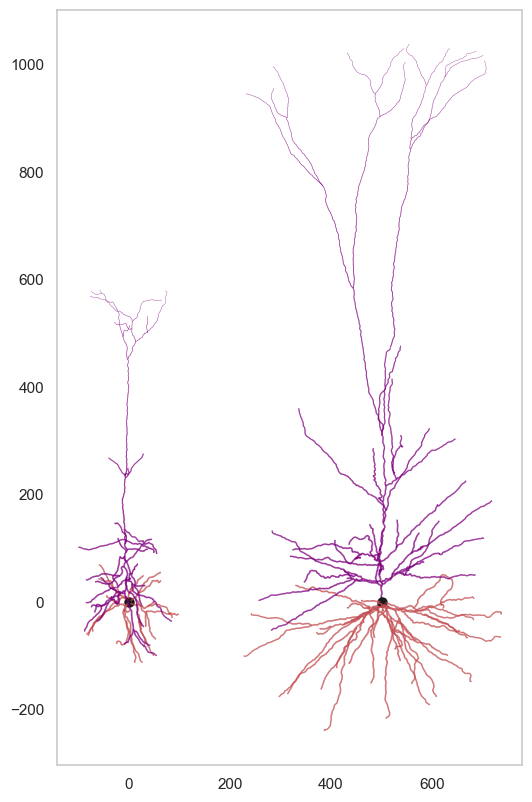
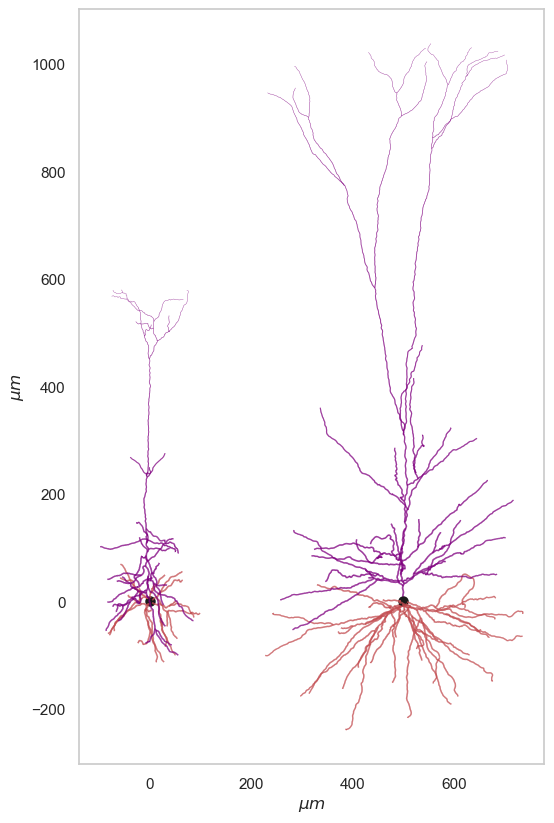
Blog updates

diff --git a/_posts/2020-01-14-how-neurons-actually-look.md b/_posts/2020-01-14-how-neurons-actually-look.md
@@ -4,30 +4,117 @@ excerpt: A look at how to visualize detailed neuron reconstructions in python
 classes: wide
 header:
     teaser: /assets/posts/morph_viz/morph_layerwise.png
-categories: [Computational Neuroscience]
+categories: [Neuroscience]
 tags: [Neuroscience, Visualization, Python]
 comments: true
 permalink: /blog/neuron_viz/
 share: true
 ---
 
-We have all seen those pictures in the high school biology book - the cells in the nervous system, **Neurons**. Here I have shared some code snippets to visualize neurons (pulled from open source data) in their full glory.
+We have all seen those pictures in the high school biology book - the cells in the nervous system, **Neurons**. Here I have shared some code snippets to visualize neurons (pulled from open source data) in their full glory. 
+
+Allen Institute shares a treasure trove of neuroscience related data with the community as well as the software support to access the data with Python. To get a feel of the different data modalitites please visit [here](https://portal.brain-map.org/). The data we are going to work with is part of the [Cell-types database](http://celltypes.brain-map.org/). The neuron morphologies are digitally reconstructed from the images of mouse/human brain tissue slices and saved as .swc file. Please go [here](http://www.neuronland.org/NLMorphologyConverter/MorphologyFormats/SWC/Spec.html) for a primer on the .swc format to understand how the measurements for the different sections of the neuron tree is saved.
+
+## Use AllenSDK to pull morphologies
+```py
+from allensdk.core.cell_types_cache import CellTypesCache
+def get_morph_path(cell_id,save_filename=None):
+    morph_path = save_filename or '%s.swc'%cell_id
+    ctc = CellTypesCache()
+    ctc.get_reconstruction(int(cell_id),file_name=morph_path)
+    return morph_path 
+
+cell_id = '479225052'
+morph_path = get_morph_path(cell_id)
+```
+
+## NeuroM 
+```py
+import neurom.viewer
+import matplotlib.pyplot as plt
+fig,ax = neurom.viewer.draw(neurom.load_neuron(morph_path))
+ax.grid(False)
+ax.set_title('')
+plt.show()
+```
 
 ![](/assets/posts/morph_viz/morph2D_neurom.png){: .left}
 
+## 3D Visualization with transformation
+As part of a bigger project related to generating detailed biophysical models, I created some visualization tools for the morphologies [<i class="fab fa-github" style="color:black;"></i>](https://github.com/AllenInstitute/All-active-Workflow). **MorphHandler** class offers the capability to rotate a neuron in 3D such that the apical trunk is upright. This involves computing the principal component of apical segments of the morphology and rotate the morphology along the axis normal to the plane composed of PC1 and positive z-axis = [0,0,1].
+
+```py
+from ateamopt.morph_handler import MorphHandler
+from mpl_toolkits.mplot3d import Axes3D
+morph_handler = MorphHandler(morph_path)
+morph_data,morph_apical,morph_axon,morph_dist_arr = morph_handler.get_morph_coords()     
+theta,axis_of_rot = morph_handler.calc_rotation_angle(morph_data,morph_apical)
+fig = plt.figure()
+ax = fig.add_subplot(projection='3d')
+ax,_ = morph_handler.draw_morphology(theta,axis_of_rot,reject_axon=False,ax=ax)
+```
 
 ![](/assets/posts/morph_viz/3D_morph_banner.png){: .full}
 
+## Adding synapses and create animation
 
+```py
+ax,elev_angle = morph_handler.draw_morphology(theta,axis_of_rot,reject_axon=False,morph_dist_arr=morph_dist_arr,axis_off=True,alpha=.8)
+n_syn_apical = 10
+ax = morph_handler.add_synapses(morph_apical,n_syn_apical,theta,axis_of_rot,ax,color='k')
+plt.show()
+```
+
+```py
+angles = np.linspace(0,360,30)[:-1] # rotate the viewing position
+files = animation_module.Animation.make_3Dviews(ax,angles,elevation=elev_angle,prefix='morph_anim/tmprot_')
+movie_name = 'morph_movie_synapses.gif'
+anim = animation_module.Animation(movie_name)
+anim.make_gif(files,delay=20)
+```
 ![](/assets/posts/morph_viz/Morph_with_synapses.png){: .align-left}
 
 <img src="/assets/posts/morph_viz/morph_movie_synapses.gif" height="800" width="300">
 
+## 2D Visualization  
+
+```py
+fig,ax=plt.subplots()
+ax = morph_handler.draw_morphology_2D(theta,axis_of_rot,reject_axon=False,ax=ax)
+plt.show()
+```
+
 ![](/assets/posts/morph_viz/2D_morph_banner.png){: .full}
 
+## Comparison between Mouse and Human neuron
 
-![](/assets/posts/morph_viz/morph_layerwise.png){: .full}
+```py
+human_cell_id,mouse_cell_id = '571735073','479225052'
+cell_ids = [mouse_cell_id,human_cell_id]
+soma_displacement_x = 500
+color_dict = {4: 'purple', 3: 'r', 2: 'b', 1 :'k' }
+fig,ax = plt.subplots(figsize=(6,10))
 
+for jj,cell_id in enumerate(cell_ids):
+    morph_path = get_morph_path(cell_id)       
+    morph_handler = MorphHandler(morph_path)
+    morph_data,morph_apical,morph_axon,morph_dist_arr = morph_handler.get_morph_coords()
+    soma_loc = np.array([jj*soma_displacement_x, 0])
+    
+    # Rotate morphology to appear upright                            
+    theta,axis_of_rot = morph_handler.calc_rotation_angle(morph_data,morph_apical)
+    ax = morph_handler.draw_morphology_2D(theta,axis_of_rot,soma_loc=soma_loc,color_dict=color_dict,morph_dist_arr=morph_dist_arr,ax=ax,lw=1.2,reject_axon=True)  
+
+ax.grid(False)
+plt.show()
+```
 
 ![](/assets/posts/morph_viz/mouse_vs_human.png){: .full}
 
+## Placing neurons along the mouse cortical depth
+
+From the average depth of each layer we can place the neurons according to their normalized depth (0 corresponds to pia and 1 the white matter). The normalized depth is part of the metadata within Allen Cell-Types database. For a variety of cell-types (from a Cre-line sense) we iterate through the neurons and plot them in their respective layers.
+
+![](/assets/posts/morph_viz/morph_layerwise.png){: .full}
+
+The entire notebook is shared [here]().
